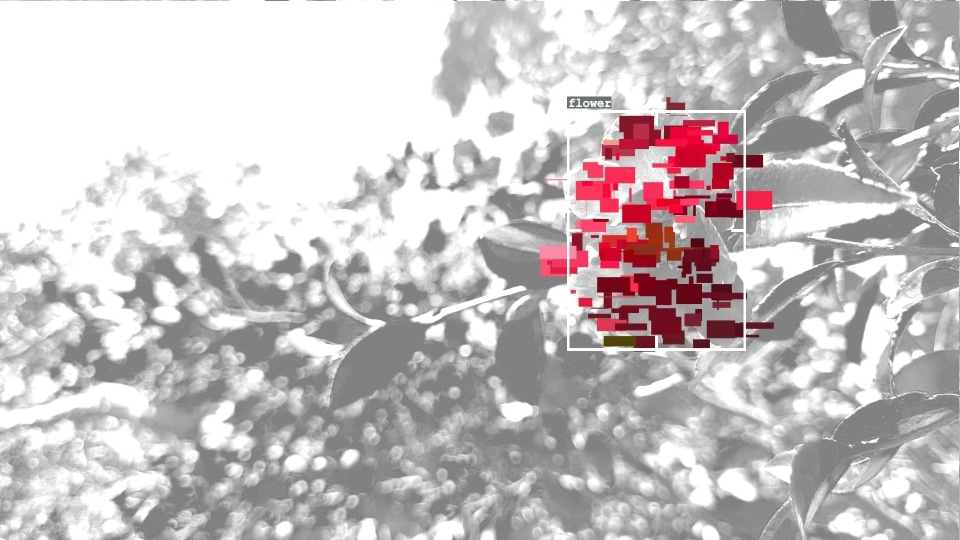
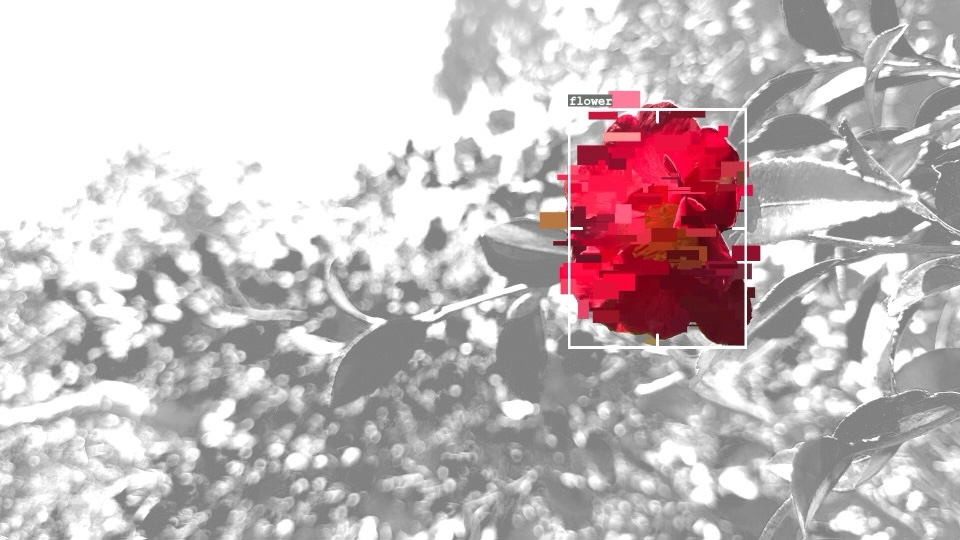
Added original pixel colour back to flower

diff --git a/sketch.js b/sketch.js
@@ -113,18 +113,42 @@ function draw () {
         let x = row;
         let y = col; 
         let pixData = sourceImg.get(x, y);
-        let c = color(pixData);
+        let maskData = maskImg.get(x, y);
         colorMode(HSB, 360, 100, 100);
-        let b = brightness(c);
 
-        let newBrightness = map(b, 0, 100, 50, 100);
-        let newColour = color(0, 0, newBrightness);
+        if(maskData[0] > 128) {
+          fill(pixData);
+          set(x, y, pixData);
+        }
+        else {
+          let c = color(pixData);
+          let b = brightness(c);
 
-        fill(newColour);
-        set(x, y,newColour);
+          let newBrightness = map(b, 0, 100, 50, 100);
+          let newColour = color(0, 0, newBrightness);
+
+          fill(newColour);
+          set(x, y,newColour);
+        }
       }
     }
     updatePixels();
+
+    // for(let i=0;i<4000;i++) {
+    //   let x = floor(random(sourceImg.width));
+    //   let y = floor(random(sourceImg.height));
+    //   let pixData = sourceImg.get(x, y);
+    //   let maskData = maskImg.get(x, y);
+    //   fill(pixData);
+    //   noStroke();
+
+    //   if(maskData[0] > 128) {
+    //     ellipse(x, y, 10, 10);
+    //     // set(x, y);
+    //     // let pointSize = 15;
+    //     // rect(x, y, pointSize, pointSize);  
+    //   }
+    // }
   }
 
   if(curLayer == 1){
